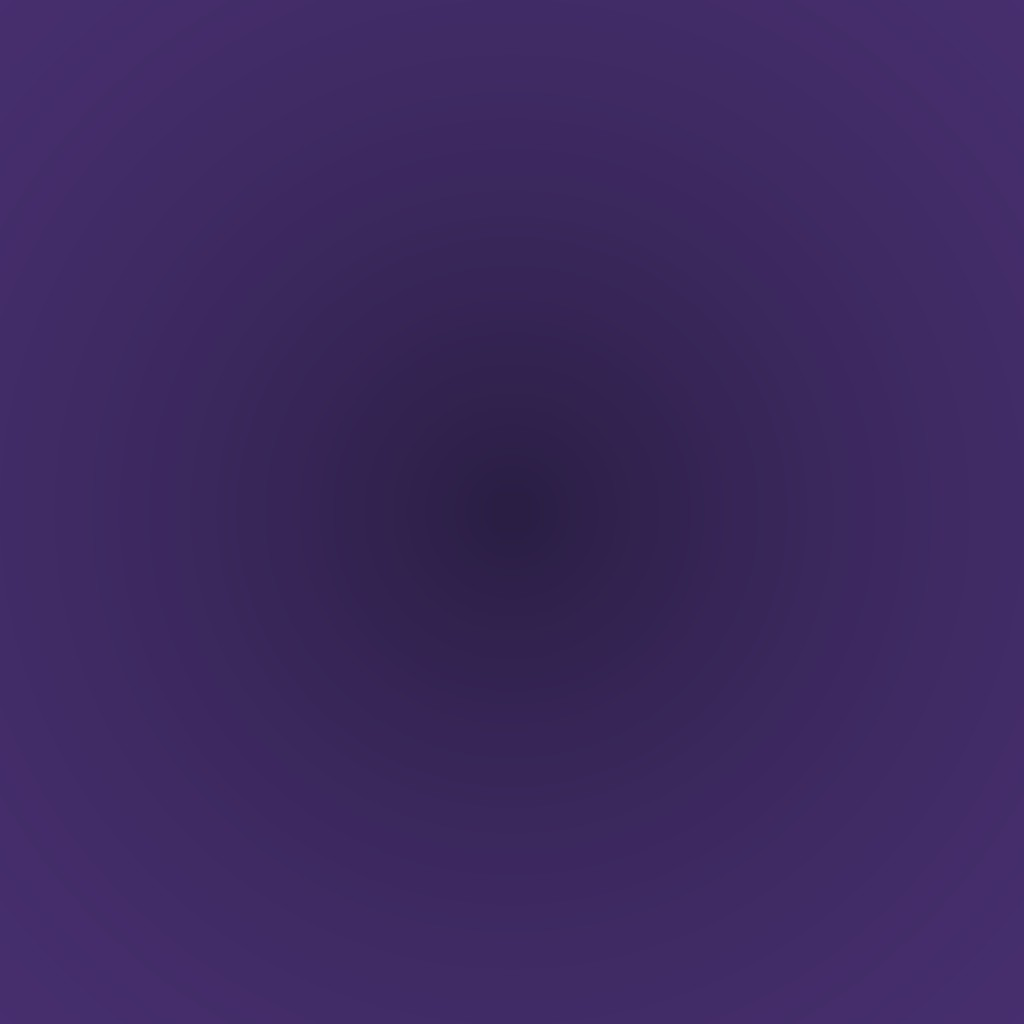
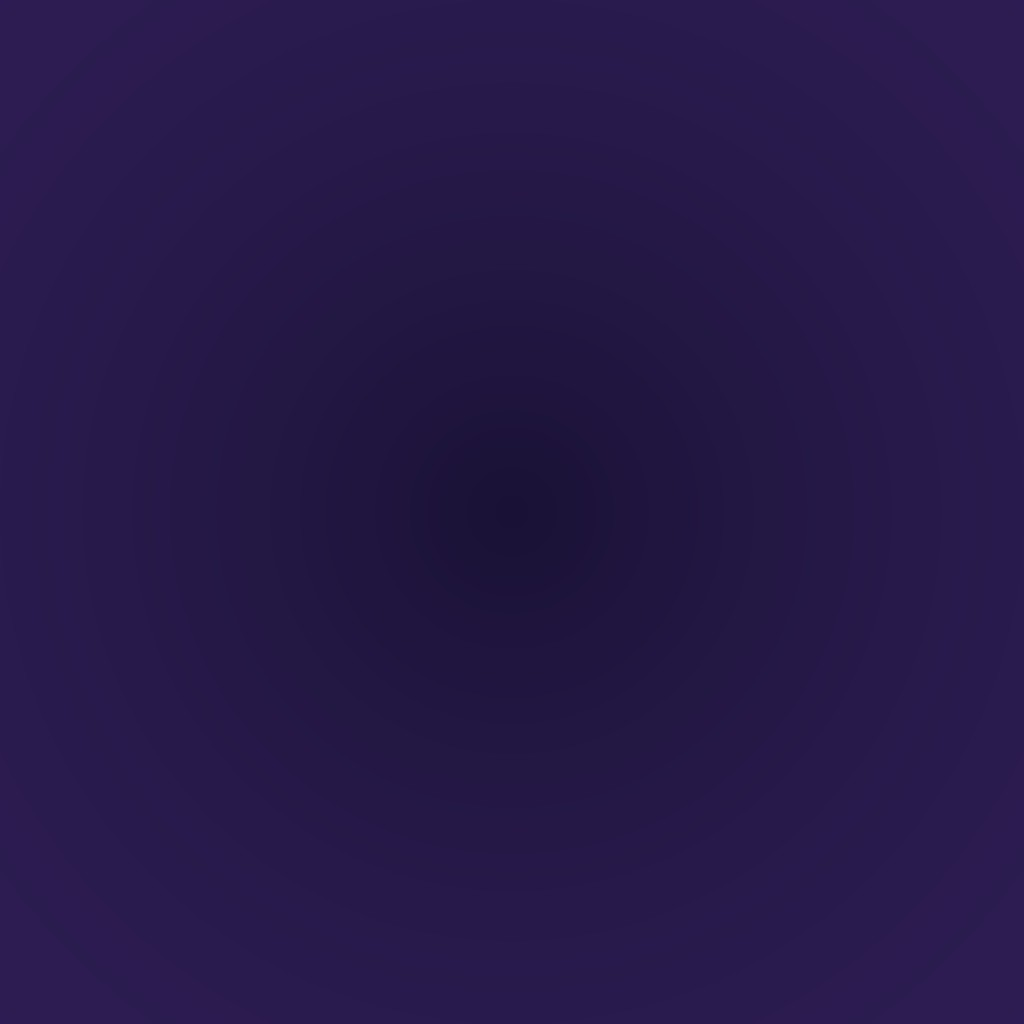
Schwebende Deko neben den Inseln entfernt, Vulkanrauch als Rauchwolken, neuer Höhlenhimmel
Claude-Session: https://claude.ai/code/session_01WGAK1WKGb9aXCr6zYGQPQk

diff --git a/welten/js/worldFactory.js b/welten/js/worldFactory.js
@@ -2579,7 +2579,10 @@ const BUILDERS = {
     // aktiv: Rauchsäule, Glut über dem Krater und herausfliegende Lavabrocken (keep: nicht beruhigen)
     const top = height(CX, CZ) + VH;
     (shared.emitters = shared.emitters || []).push(
-      { name: 'Vulkanrauch', keep: true, pos: [CX, top + 0.4, CZ], size: [1.4, 0.2, 1.4], colors: ['#3a302c', '#5a4e48'], particleSize: 1.4, sizeEnd: 4.2, rate: 6, speed: [0.9, 1.5], lifetime: [6, 9], spread: [10, 10], direction: 'Top', lightEmission: 0, drag: 0.08, acceleration: [0.06, 0, 0.03], transparency: [[0, 1], [0.1, 0.35], [0.7, 0.7], [1, 1]] },
+      // Rauchsäule (Werkstatt-Wunsch „Rauch vom Vulkan verbessern“): weiche Rauchwolken statt Funkeln, unten dicht
+      // und dunkel mit Glutschein, nach oben heller, breiter und langsam vom Wind verweht
+      { name: 'Vulkanrauch', keep: true, texture: 'smoke', pos: [CX, top + 0.3, CZ], size: [1.2, 0.2, 1.2], colors: ['#2a2220', '#4a403c', '#8a827e'], particleSize: 1.6, sizeEnd: 6.5, rate: 9, speed: [0.9, 1.4], lifetime: [7, 10], spread: [8, 8], direction: 'Top', lightEmission: 0, drag: 0.12, rotSpeed: [-25, 25], acceleration: [0.12, 0.05, 0.05], transparency: [[0, 1], [0.08, 0.25], [0.6, 0.55], [1, 1]] },
+      { name: 'Rauchglut', keep: true, texture: 'smoke', pos: [CX, top + 0.2, CZ], size: [1.0, 0.1, 1.0], colors: ['#ff7a2a', '#a8381a'], particleSize: 1.2, sizeEnd: 2.4, rate: 5, speed: [0.6, 1], lifetime: [1.4, 2.2], spread: [6, 6], direction: 'Top', lightEmission: 0.7, rotSpeed: [-30, 30], transparency: [[0, 1], [0.15, 0.45], [1, 1]] },
       { name: 'Kraterglut', keep: true, pos: [CX, top + 0.2, CZ], size: [1.6, 0.1, 1.6], colors: ['#ffd27a', '#ff5a12'], particleSize: 0.12, sizeEnd: 0.04, rate: 10, speed: [0.8, 1.8], lifetime: [0.8, 1.6], spread: [20, 20], direction: 'Top', lightEmission: 1 },
       { name: 'Lavabrocken', keep: true, pos: [CX, top + 0.2, CZ], size: [0.8, 0.1, 0.8], colors: ['#ffb02e', '#ff4a00'], particleSize: 0.26, sizeEnd: 0.2, rate: 1.5, speed: [3.4, 5], lifetime: [1.8, 2.6], spread: [28, 28], direction: 'Top', lightEmission: 1, acceleration: [0, -3.6, 0] },
     );

diff --git a/roblox/js/worldParts.js b/roblox/js/worldParts.js
@@ -902,7 +902,9 @@ export function worldToParts(world) {
     // (Felszapfen, Wurzeln, Eiszapfen …)
     if (rbx.sky) {
       const wp = o.getWorldPosition(V(0, 0, 0));
-      if (Math.hypot(wp.x, wp.z) > built.radius + 4 || wp.y > 2) return;
+      // auch nichts mehr neben der Insel: Bäume, Felsen und Kristalle der früheren Nachbarinseln hingen ohne
+      // ihre Insel in der Luft (Werkstatt-Wunsch „Deko auf der Insel platzieren“)
+      if (Math.hypot(wp.x, wp.z) > built.radius + 0.5 || wp.y > 2) return;
     }
     const out = rbx.sky ? sky : parts, n0 = out.length;
     convertMesh(out, o, world);
@@ -952,8 +954,14 @@ export function worldToParts(world) {
       ...(e.keep ? { keep: true } : {}),
       ...(e.sizeEnd ? { sizeEnd: e.sizeEnd * STUDS } : {}),
       ...(e.squash ? { squash: e.squash } : {}),
+      ...(e.texture ? { texture: e.texture } : {}), // 'smoke': weiche Rauchwolke statt Funkeln
       squares: false,
     });
+  // Rauch (Vulkan, Lavafall, Kamin) als weiche Rauchwolke statt als dunkles Funkeln (Werkstatt-Wunsch „Rauch vom
+  // Vulkan verbessern“)
+  for (const e of emitters) if (/rauch/i.test(e.name || '')) e.texture = 'smoke';
+  // der Himmel ist nur ein Bild: keine Sternschnuppen und Vogelschwärme hoch über der Insel
+  for (let i = emitters.length - 1; i >= n0; i--) if (/^(Sternschnuppen|Voegel)$/.test(emitters[i].name || '')) emitters.splice(i, 1);
   // Werkstatt-Wünsche: weitere Teilchen der Welt ebenso beruhigen oder entfernen (Tiere bleiben)
   for (let i = emitters.length - 1; i >= n0; i--) {
     if (LIFE.test(emitters[i].name || '') || emitters[i].keep) continue;

diff --git a/roblox/js/rbxmx.js b/roblox/js/rbxmx.js
@@ -244,10 +244,10 @@ export function worldModel(w, offset = [0, 0, 0]) {
       prop.token('EmissionDirection', NORMAL_ID[e.direction]),
       prop.float('LightEmission', e.lightEmission),
       prop.range('RotSpeed', e.rotSpeed || [-40, 40]),
-      prop.range('Rotation', e.rotSpeed ? [0, 0] : [0, 360]),
+      prop.range('Rotation', e.rotSpeed && e.texture !== 'smoke' ? [0, 0] : [0, 360]),
       ...(e.drag ? [prop.float('Drag', e.drag)] : []),
       ...(e.squash ? [prop.numseq('Squash', [[0, e.squash], [1, e.squash]])] : []),
-      prop.content('Texture', e.squares ? 'rbxasset://textures/particles/sparkles_main.dds' : 'rbxasset://textures/particles/sparkles_main.dds'),
+      prop.content('Texture', (e.texture === 'smoke' ? 'rbxasset://textures/particles/smoke_main.dds' : 'rbxasset://textures/particles/sparkles_main.dds')),
       ...(e.acceleration ? [prop.vec3('Acceleration', e.acceleration)] : []),
     ]);
     fx += part({ shape: 'Block', name: 'Partikelquelle', pos: e.pos, rot: e.rot || ID.x, size: e.size, color: '#ffffff', material: 'SmoothPlastic', transparency: 1, canCollide: false, castShadow: false }, offset, pe);

diff --git a/welten/js/robloxWorld.js b/welten/js/robloxWorld.js
@@ -123,7 +123,7 @@ export function buildRobloxWorld(world, { shadows = true } = {}) {
       Size: [[0, e.particleSize], [1, e.sizeEnd ?? e.particleSize * 0.8]],
       Transparency: e.transparency || [[0, 0.1], [0.8, 0.3], [1, 1]],
       Lifetime: e.lifetime, Rate: e.rate, Speed: e.speed, SpreadAngle: e.spread, EmissionDirection: e.direction,
-      LightEmission: e.lightEmission, RotSpeed: e.rotSpeed || [-40, 40], Rotation: e.rotSpeed ? [0, 0] : [0, 360], Texture: 'rbxasset://textures/particles/sparkles_main.dds',
+      LightEmission: e.lightEmission, RotSpeed: e.rotSpeed || [-40, 40], Rotation: e.rotSpeed && e.texture !== 'smoke' ? [0, 0] : [0, 360], Texture: (e.texture === 'smoke' ? 'rbxasset://textures/particles/smoke_main.dds' : 'rbxasset://textures/particles/sparkles_main.dds'),
       ...(e.drag ? { Drag: e.drag } : {}),
       ...(e.squash ? { Squash: [[0, e.squash], [1, e.squash]] } : {}),
       ...(e.acceleration ? { Acceleration: v3(e.acceleration) } : {}),

diff --git a/welten/js/planet1.js b/welten/js/planet1.js
@@ -595,7 +595,6 @@ function emitters(ctx) {
     // Polarlicht: der Lichtvorhang aus WorldFx (auroraCurtain); früher hier Leuchtpartikel am Himmel
   } else if (id === 'lava') {
     add('Asche', [0, 0.5, 0], [R * 2, 1, R * 2], ['#5a4a44', '#8a7a70'], 0.3, 14, [0.6, 1.4], [8, 12], { spread: [20, 20] });
-    add('Rauchfahne', [-50, 18, -30], [6, 2, 6], ['#3a302c', '#5a4a44'], 4, 6, [1.5, 3], [8, 12], { spread: [15, 15] });
   } else if (id === 'hoehle') {
     add('Leuchtfalter', [0, 2.5, 0], [R * 2, 4, R * 2], ['#6ae8ff', '#b07bff', '#ff7ae0'], 0.25, 6, [0.2, 0.6], [6, 10], { light: 1 });
   } else if (id === 'candy') {

diff --git a/tools/himmel/himmel.py b/tools/himmel/himmel.py
@@ -192,6 +192,101 @@ def cave(img, elev, u, cfg, seed):
     img[:] = img * (1 - a[..., None]) + col * a[..., None]
 
 
+# Kristallhöhle (Werkstatt-Wunsch „Höhle: Himmel verbessern“): Tropfsteine in mehreren Schichten von oben und unten,
+# leuchtende Kristalle an den Spitzen, Lichtkante an den Felsen, Leuchtnebel und schwebende Glimmerpunkte.
+# Alles hängt über u (mod 1) von der Richtung ab, darum wiederholt es sich alle 90 Grad ohne Naht.
+def _peaks(rng, n, w, h):
+    return [(rng.random(), rng.uniform(*w), rng.uniform(*h), rng.random()) for _ in range(n)]
+
+
+def _profile(u, peaks, power=1.0):
+    """Höhe je Spalte: Maximum aus spitzen Zacken; dazu, welche Zacke dort am höchsten ist"""
+    best = np.zeros_like(u)
+    who = np.full(u.shape, -1, np.int32)
+    for i, (c, w, h, _) in enumerate(peaks):
+        d = np.abs(((u - c) + 0.5) % 1.0 - 0.5)
+        v = h * np.clip(1 - d / w, 0, 1) ** power
+        m = v > best
+        best = np.where(m, v, best)
+        who = np.where(m, i, who)
+    return best, who
+
+
+def cavern(img, elev, u, cfg, seed):
+    rng = np.random.default_rng(seed)
+    rock = rgb(cfg['rock'])
+    cols = [rgb(c) for c in cfg['crystals']]
+    tex = fbm(u, elev / 40.0, 8, 4, seed + 1, 0.55)
+    glow_acc = np.zeros(elev.shape, np.float32)
+    glow_col = np.zeros(elev.shape + (3,), np.float32)
+    # Schichten von hinten (hell, im Nebel) nach vorn (dunkel)
+    for li, layer in enumerate(cfg['layers']):
+        fog = layer['fog']
+        base = rock * (1 - fog) + rgb(cfg['fogColor']) * fog
+        # Stalagmiten von unten
+        pk = _peaks(rng, layer['n'], layer['w'], layer['h'])
+        h, who = _profile(u, pk, layer.get('power', 1.3))
+        top = layer['base'] + h
+        a = smooth(top + 0.6, top - 0.6, elev)
+        shade = base[None, None, :] * (0.75 + 0.5 * tex[..., None])
+        # Lichtkante oben an der Spitze (Kristallschein)
+        rim = smooth(top - 2.5, top - 0.2, elev) * a * smooth(0.5, 3, h)
+        # Kristall an der Spitze bei manchen Zacken
+        tip = np.zeros(elev.shape, np.float32)
+        tipc = np.zeros(elev.shape + (3,), np.float32)
+        for i, (c, w, hh, r) in enumerate(pk):
+            if r > layer.get('crystal', 0.5):
+                continue
+            m = (who == i)
+            t = smooth(layer['base'] + hh * 0.55, layer['base'] + hh * 0.8, elev) * m * a
+            col = cols[i % len(cols)]
+            tip = np.maximum(tip, t)
+            tipc = np.where((t > 0)[..., None], col[None, None, :], tipc)
+        c = shade * (1 - rim[..., None] * 0.6) + rgb(cfg['rim'])[None, None, :] * rim[..., None] * 0.6 * (1 - fog)
+        c = c * (1 - tip[..., None]) + (tipc * (0.75 + 0.35 * tex[..., None])) * tip[..., None]
+        img[:] = img * (1 - a[..., None]) + c * a[..., None]
+        glow_acc += tip * (1 - fog * 0.5)
+        glow_col += tipc * tip[..., None]
+        # Tropfsteine von oben
+        pk2 = _peaks(rng, layer['n'] + 4, layer['w'], (layer['h'][0] * 0.8, layer['h'][1] * 1.1))
+        h2, who2 = _profile(u, pk2, layer.get('power', 1.3))
+        edge = cfg['ceiling'] - h2 - li * 2
+        a2 = smooth(edge - 0.6, edge + 0.6, elev)
+        rim2 = smooth(edge + 2.5, edge + 0.2, elev) * a2 * smooth(0.5, 3, h2)
+        tip2 = np.zeros(elev.shape, np.float32)
+        tipc2 = np.zeros(elev.shape + (3,), np.float32)
+        for i, (c0, w, hh, r) in enumerate(pk2):
+            if r > layer.get('crystal', 0.5) * 0.6:
+                continue
+            m = (who2 == i)
+            t = smooth(cfg['ceiling'] - hh * 0.55, cfg['ceiling'] - hh * 0.8, elev) * m * a2
+            col = cols[(i + 1) % len(cols)]
+            tip2 = np.maximum(tip2, t)
+            tipc2 = np.where((t > 0)[..., None], col[None, None, :], tipc2)
+        c2 = shade * (1 - rim2[..., None] * 0.5) + rgb(cfg['rim'])[None, None, :] * rim2[..., None] * 0.5 * (1 - fog)
+        c2 = c2 * (1 - tip2[..., None]) + tipc2 * tip2[..., None]
+        img[:] = img * (1 - a2[..., None]) + c2 * a2[..., None]
+        glow_acc += tip2 * (1 - fog * 0.5)
+        glow_col += tipc2 * tip2[..., None]
+    # Leuchten um die Kristalle (weich, in ihrer Farbe)
+    gcol = glow_col / np.maximum(glow_acc[..., None], 1e-4)
+    halo = blur_wrap(np.clip(glow_acc, 0, 1), 14) * cfg.get('halo', 0.9)
+    for k in range(3):
+        img[..., k] = np.clip(img[..., k] + blur_wrap(np.clip(gcol[..., k] * np.clip(glow_acc, 0, 1), 0, 1), 14) * cfg.get('halo', 0.9), 0, 1)
+    # Glimmer: schwebende Leuchtpunkte in Kristallfarben mit weichem Schein
+    dots = np.zeros(elev.shape + (3,), np.float32)
+    H, W = elev.shape
+    for _ in range(cfg.get('motes', 160)):
+        y, x = int(rng.integers(0, H)), int(rng.integers(0, W))
+        if not (-2 < elev[y, x] < 30):
+            continue
+        col = cols[int(rng.integers(0, len(cols)))]
+        r = int(rng.integers(1, 3))
+        dots[max(0, y - r):y + r + 1, max(0, x - r):x + r + 1] = col * rng.uniform(0.6, 1.0)
+    for k in range(3):
+        img[..., k] = np.clip(img[..., k] + dots[..., k] * 0.8 + blur_wrap(dots[..., k], 4) * 1.2, 0, 1)
+
+
 # Regenbogenband rundherum (nur von der Höhe abhängig, darum ohne Naht), weich und durchscheinend
 def rainbow(img, elev, cfg):
     lo, hi = cfg['band']
@@ -320,6 +415,8 @@ def render(name, cfg):
         milky(img, elev, u, cfg['milky'], seed + 91)
     if cfg.get('cave'):
         cave(img, elev, u, cfg['cave'], seed + 77)
+    if cfg.get('cavern'):
+        cavern(img, elev, u, cfg['cavern'], seed + 79)
     if cfg.get('water'):
         water(img, elev, u, cfg['water'], seed + 33)
     if cfg.get('rays'):
@@ -425,13 +522,22 @@ HIMMEL = {
     # Leuchtnebel, darunter Glimmer (Sterne in Kristallfarben)
     'hoehle': {
         'seed': 61,
-        'gradient': [(-5, '#5a3a8a'), (4, '#4a2e7a'), (12, '#2c1e4a'), (30, '#181228'), (90, '#0e0a18')],
-        'below': [(-90, '#2a1e44'), (0, '#5a3a8a')],
-        'clouds': [
-            {'band': (1, 12), 'scale': 4, 'cover': 0.65, 'soft': 0.45, 'light': '#a070f0', 'shadow': '#4a2e7a', 'streaks': True, 'alpha': 0.35, 'blur': 8},
-        ],
-        'stars': 600,
-        'cave': {'rock': '#2a2238', 'vein': '#7ae8ff', 'ceiling': 34, 'reach': 24, 'spikes': 26},
+        'gradient': [(-8, '#3a2466'), (0, '#7a4ad0'), (6, '#5a36a8'), (16, '#2e1e5a'), (34, '#1a1236'), (90, '#120c24')],
+        'below': [(-90, '#1a1236'), (0, '#3a2466')],
+        'glow': {'at': 2, 'width': 7, 'color': '#c070ff', 'strength': 0.55},
+        'nebula': {'band': (-4, 26), 'colors': ['#7a3ad8', '#2ab8e0', '#e05ac8'], 'scale': 3, 'cut': 0.5, 'contrast': 3.0, 'strength': 0.5, 'core': '#e8d8ff', 'coreStrength': 0.15},
+        'cavern': {
+            'rock': '#2a2040', 'fogColor': '#6a48b8', 'rim': '#b8a0ff', 'ceiling': 44,
+            'crystals': ['#7af0ff', '#d07aff', '#ff7ad8', '#8affc8'],
+            'layers': [
+                {'n': 12, 'w': (0.03, 0.07), 'h': (6, 16), 'base': -6, 'fog': 0.6, 'crystal': 0.45, 'power': 1.2},
+                {'n': 9, 'w': (0.025, 0.06), 'h': (8, 22), 'base': -8, 'fog': 0.3, 'crystal': 0.5, 'power': 1.3},
+                {'n': 6, 'w': (0.02, 0.045), 'h': (10, 26), 'base': -10, 'fog': 0.0, 'crystal': 0.6, 'power': 1.4},
+            ],
+            'halo': 0.7, 'motes': 220,
+        },
+        'stars': 300, 'starsFrom': 8,
+        'cave': {'rock': '#2a2238', 'vein': '#7ae8ff', 'ceiling': 60, 'reach': 0, 'spikes': 26},
     },
     # Candy: Zuckerwattehimmel in Pastell, rosa Horizont, Regenbogenband, dicke Zuckerwattewolken in Rosa und Hellblau
     'candy': {
